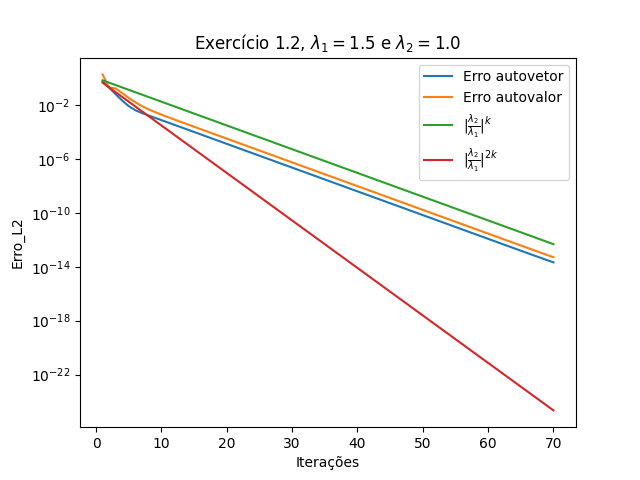
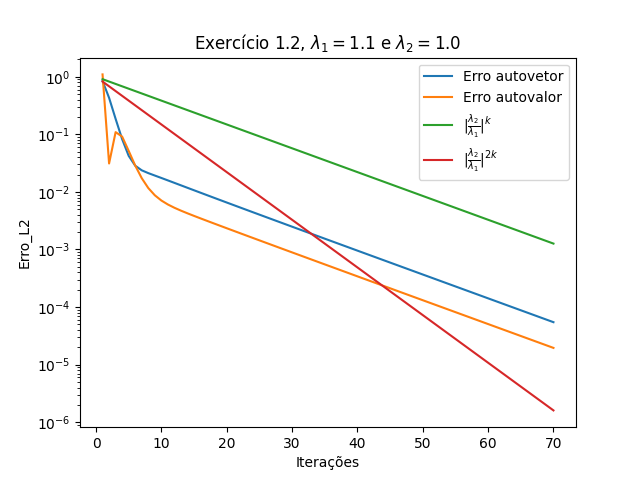
erros corrigidos

diff --git a/ex1.py b/ex1.py
@@ -212,7 +212,7 @@ met.printInitialConditions(B, x0, 5, "B")
 
 # Exercício 1.2.a
 print("-> Primeiro teste: lambda1 relativamente perto de lambda2")
-D = np.array([[1.5, 0, 0,   0,      0],
+D = np.array([[1.1, 0, 0,   0,      0],
               [0,   1, 0,   0,      0], 
               [0,   0, 0.5, 0,      0],
               [0,   0, 0,   0.2,    0], 
@@ -241,7 +241,7 @@ printReference(highestEigValue, secondHighestEigValue, eigVector)
 # Comparação e gráficos
 printComparison(results[1], highestEigValue, results[0], eigVector)
 createGraphic(
-    A, x0, eigValuesAndVectors, "Exercício 1.2, $\lambda_{1} = 1.5$ e $\lambda_{2} = 1.0$", "ex1_2a")
+    A, x0, eigValuesAndVectors, "Exercício 1.2, $\lambda_{1} = 1.1$ e $\lambda_{2} = 1.0$", "ex1_2a")
 
 
 # Exercício 1.2.b (mesmas condições para B e x0)

diff --git a/ex2.py b/ex2.py
@@ -247,6 +247,7 @@ A = createA1array(B, 10)
 print("A (10x10) = ")
 print(A)
 print("\n")
+print("\n")
 # Aplicação do critério das linhas
 print("Criterio das linhas para A: ", linesCriterion(A, 10))
 print("\n")
@@ -293,7 +294,7 @@ print("\n")
 # Exercício 2.2.a
 print(
     "-> Primeiro teste: lambda_n^(-1) relativamente perto de lambda_[n-1]^(-1)")
-D = np.array([[1.5, 0, 0,   0,      0],
+D = np.array([[1.1, 0, 0,   0,      0],
               [0,   1, 0,   0,      0],
               [0,   0, 0.5, 0,      0],
               [0,   0, 0,   0.12,   0],
@@ -346,6 +347,8 @@ D = np.array([[5, 0, 0,   0,      0],
 A = createA2array(B0, D, 5, 15)
 print("D (5x5) = ")
 print(D)
+print("\n")
+print("p = 15")
 print("\n")
 print("A (5x5) = ")
 print(A)

diff --git a/metodos.py b/metodos.py
@@ -139,3 +139,20 @@ refêrencia ('eigVectorRef').
 '''
 def getEigVectorError(eigVector, eigVectorRef):
     return np.linalg.norm(eigVector - eigVectorRef)
+
+def imprime(matrix):
+    for i in range(len(matrix)):
+        string = ""
+        for j in range(len(matrix[i])):
+            string = string + str(round(matrix[i][j], 3)) + " & "
+        string = string + "\\"
+        string = string.replace(".", ",")
+        print(string)
+
+def imprime2(matrix):
+    string = ""
+    for i in range(len(matrix)):
+        for j in range(len(matrix[i])):
+            string = string + str(round(matrix[i][j], 8)) + " & "
+        string = string.replace(".", ",")
+    print(string)
